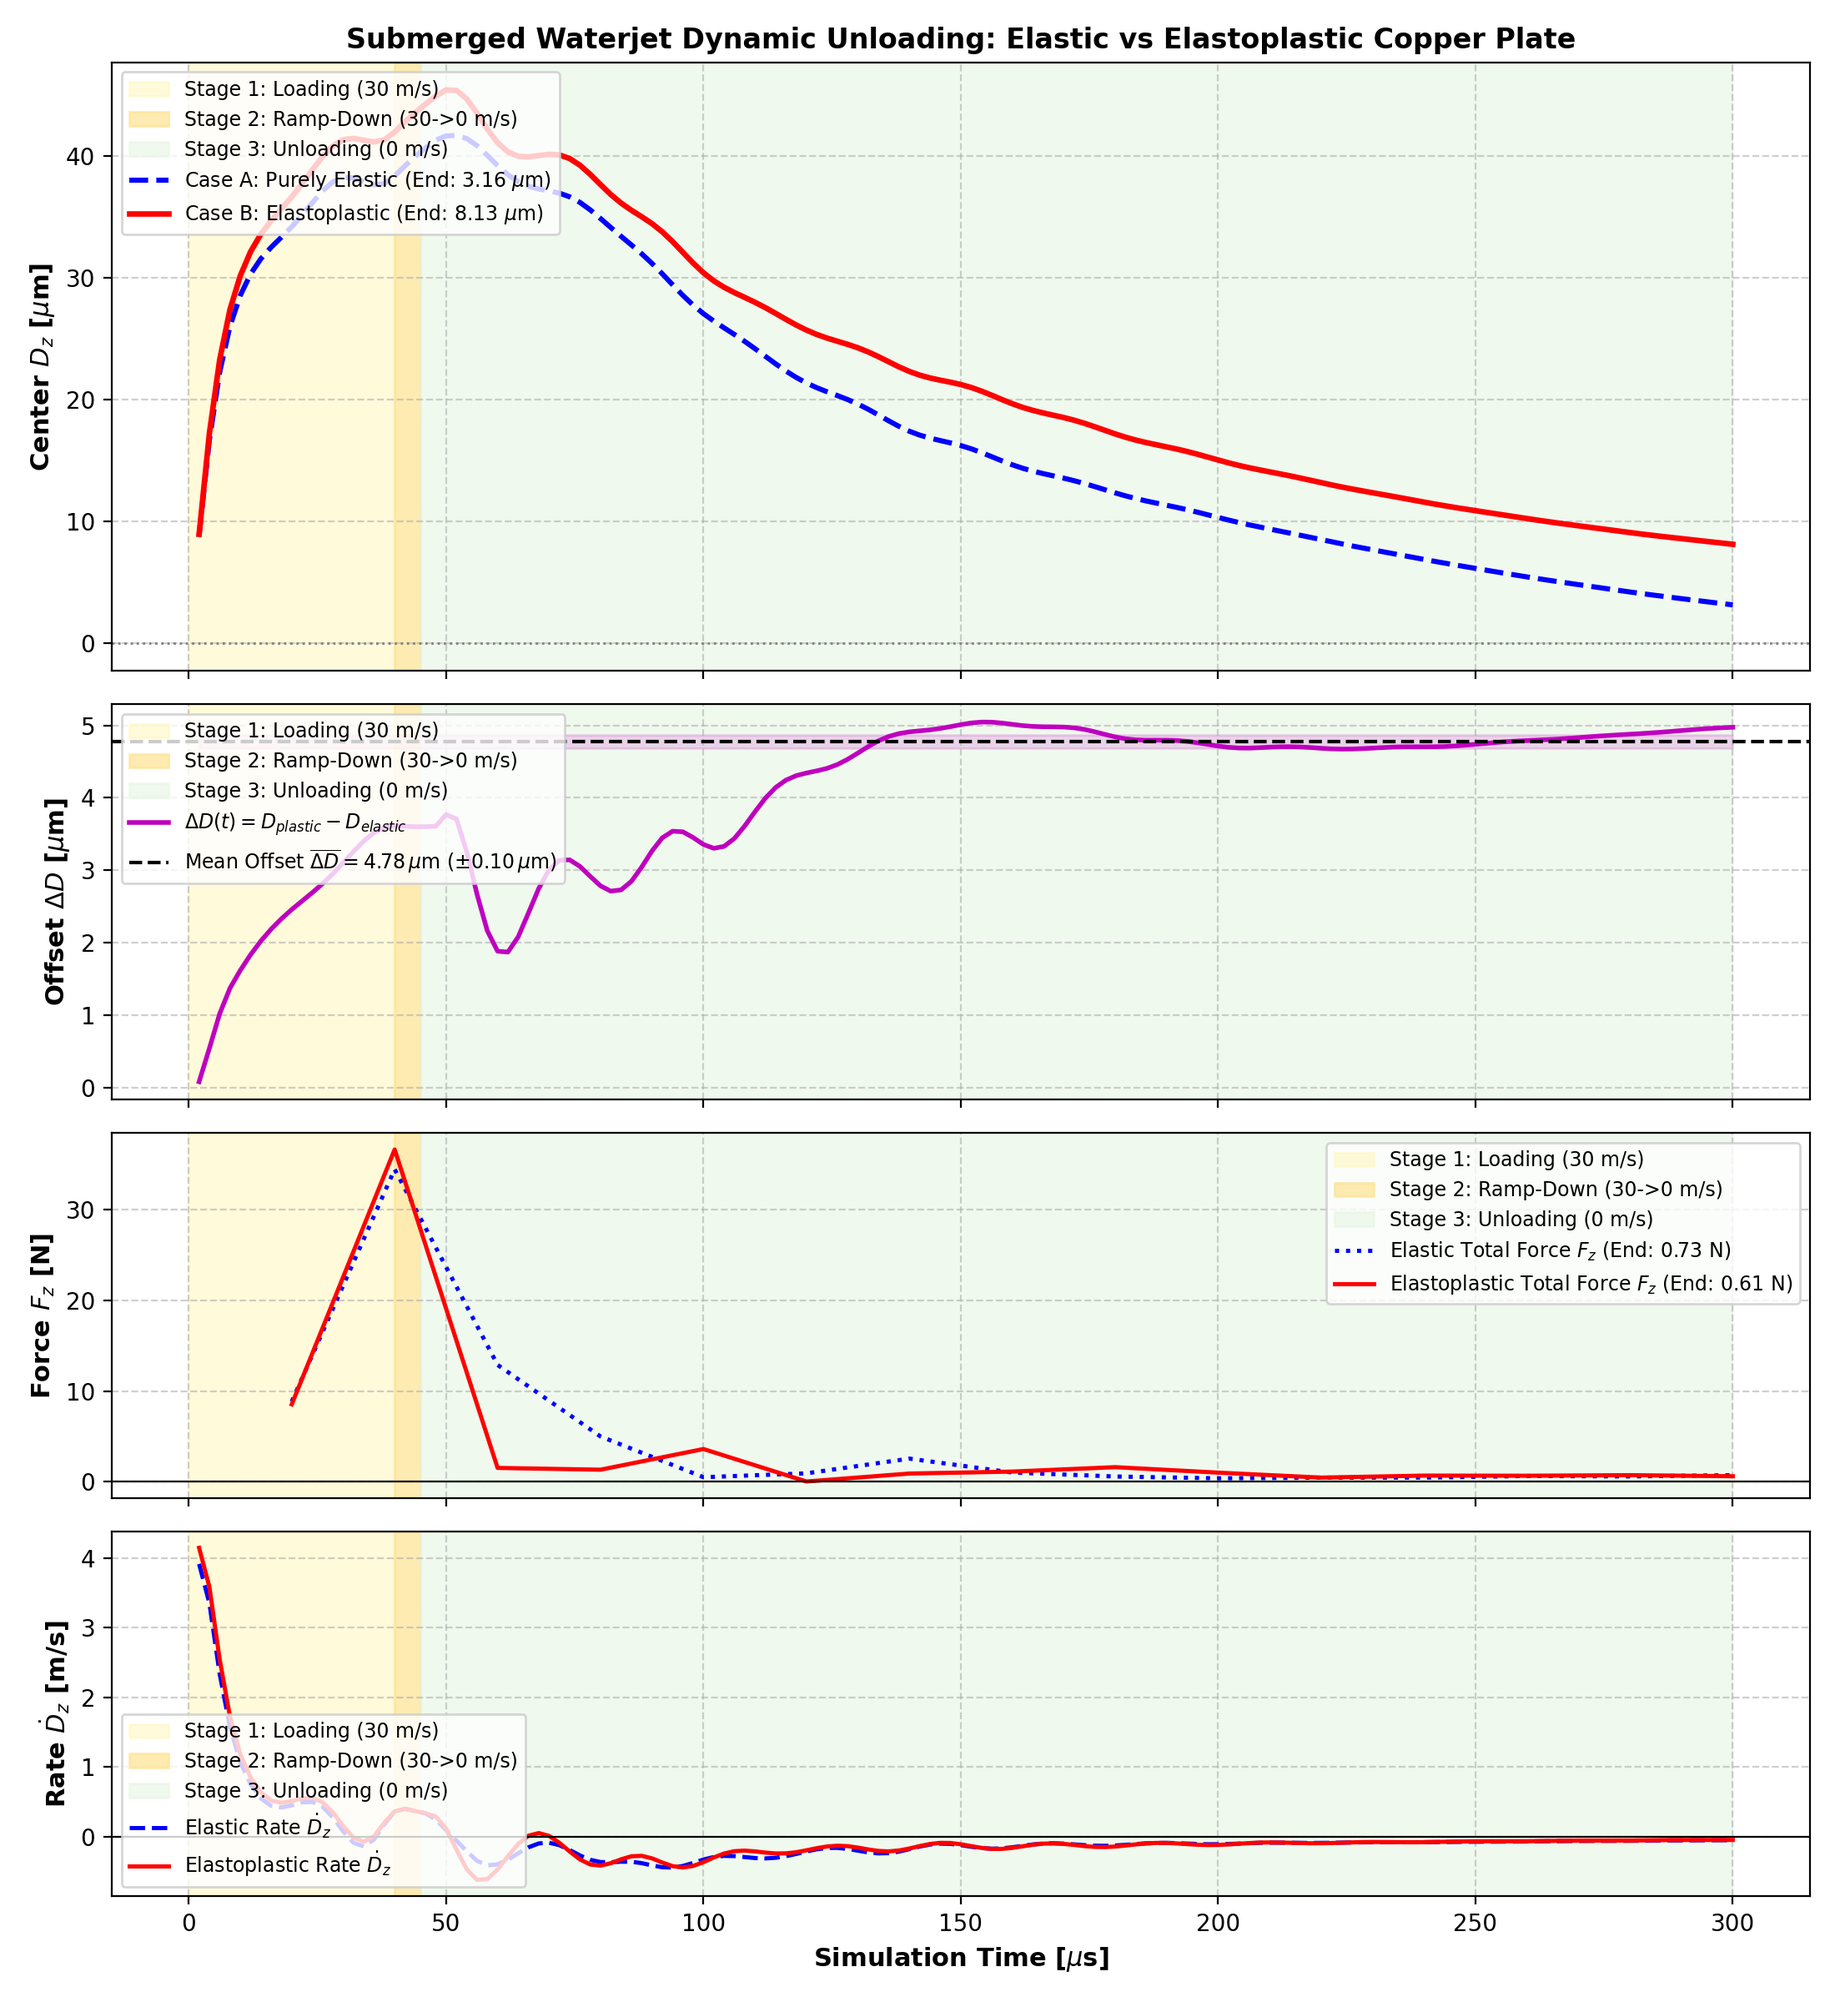
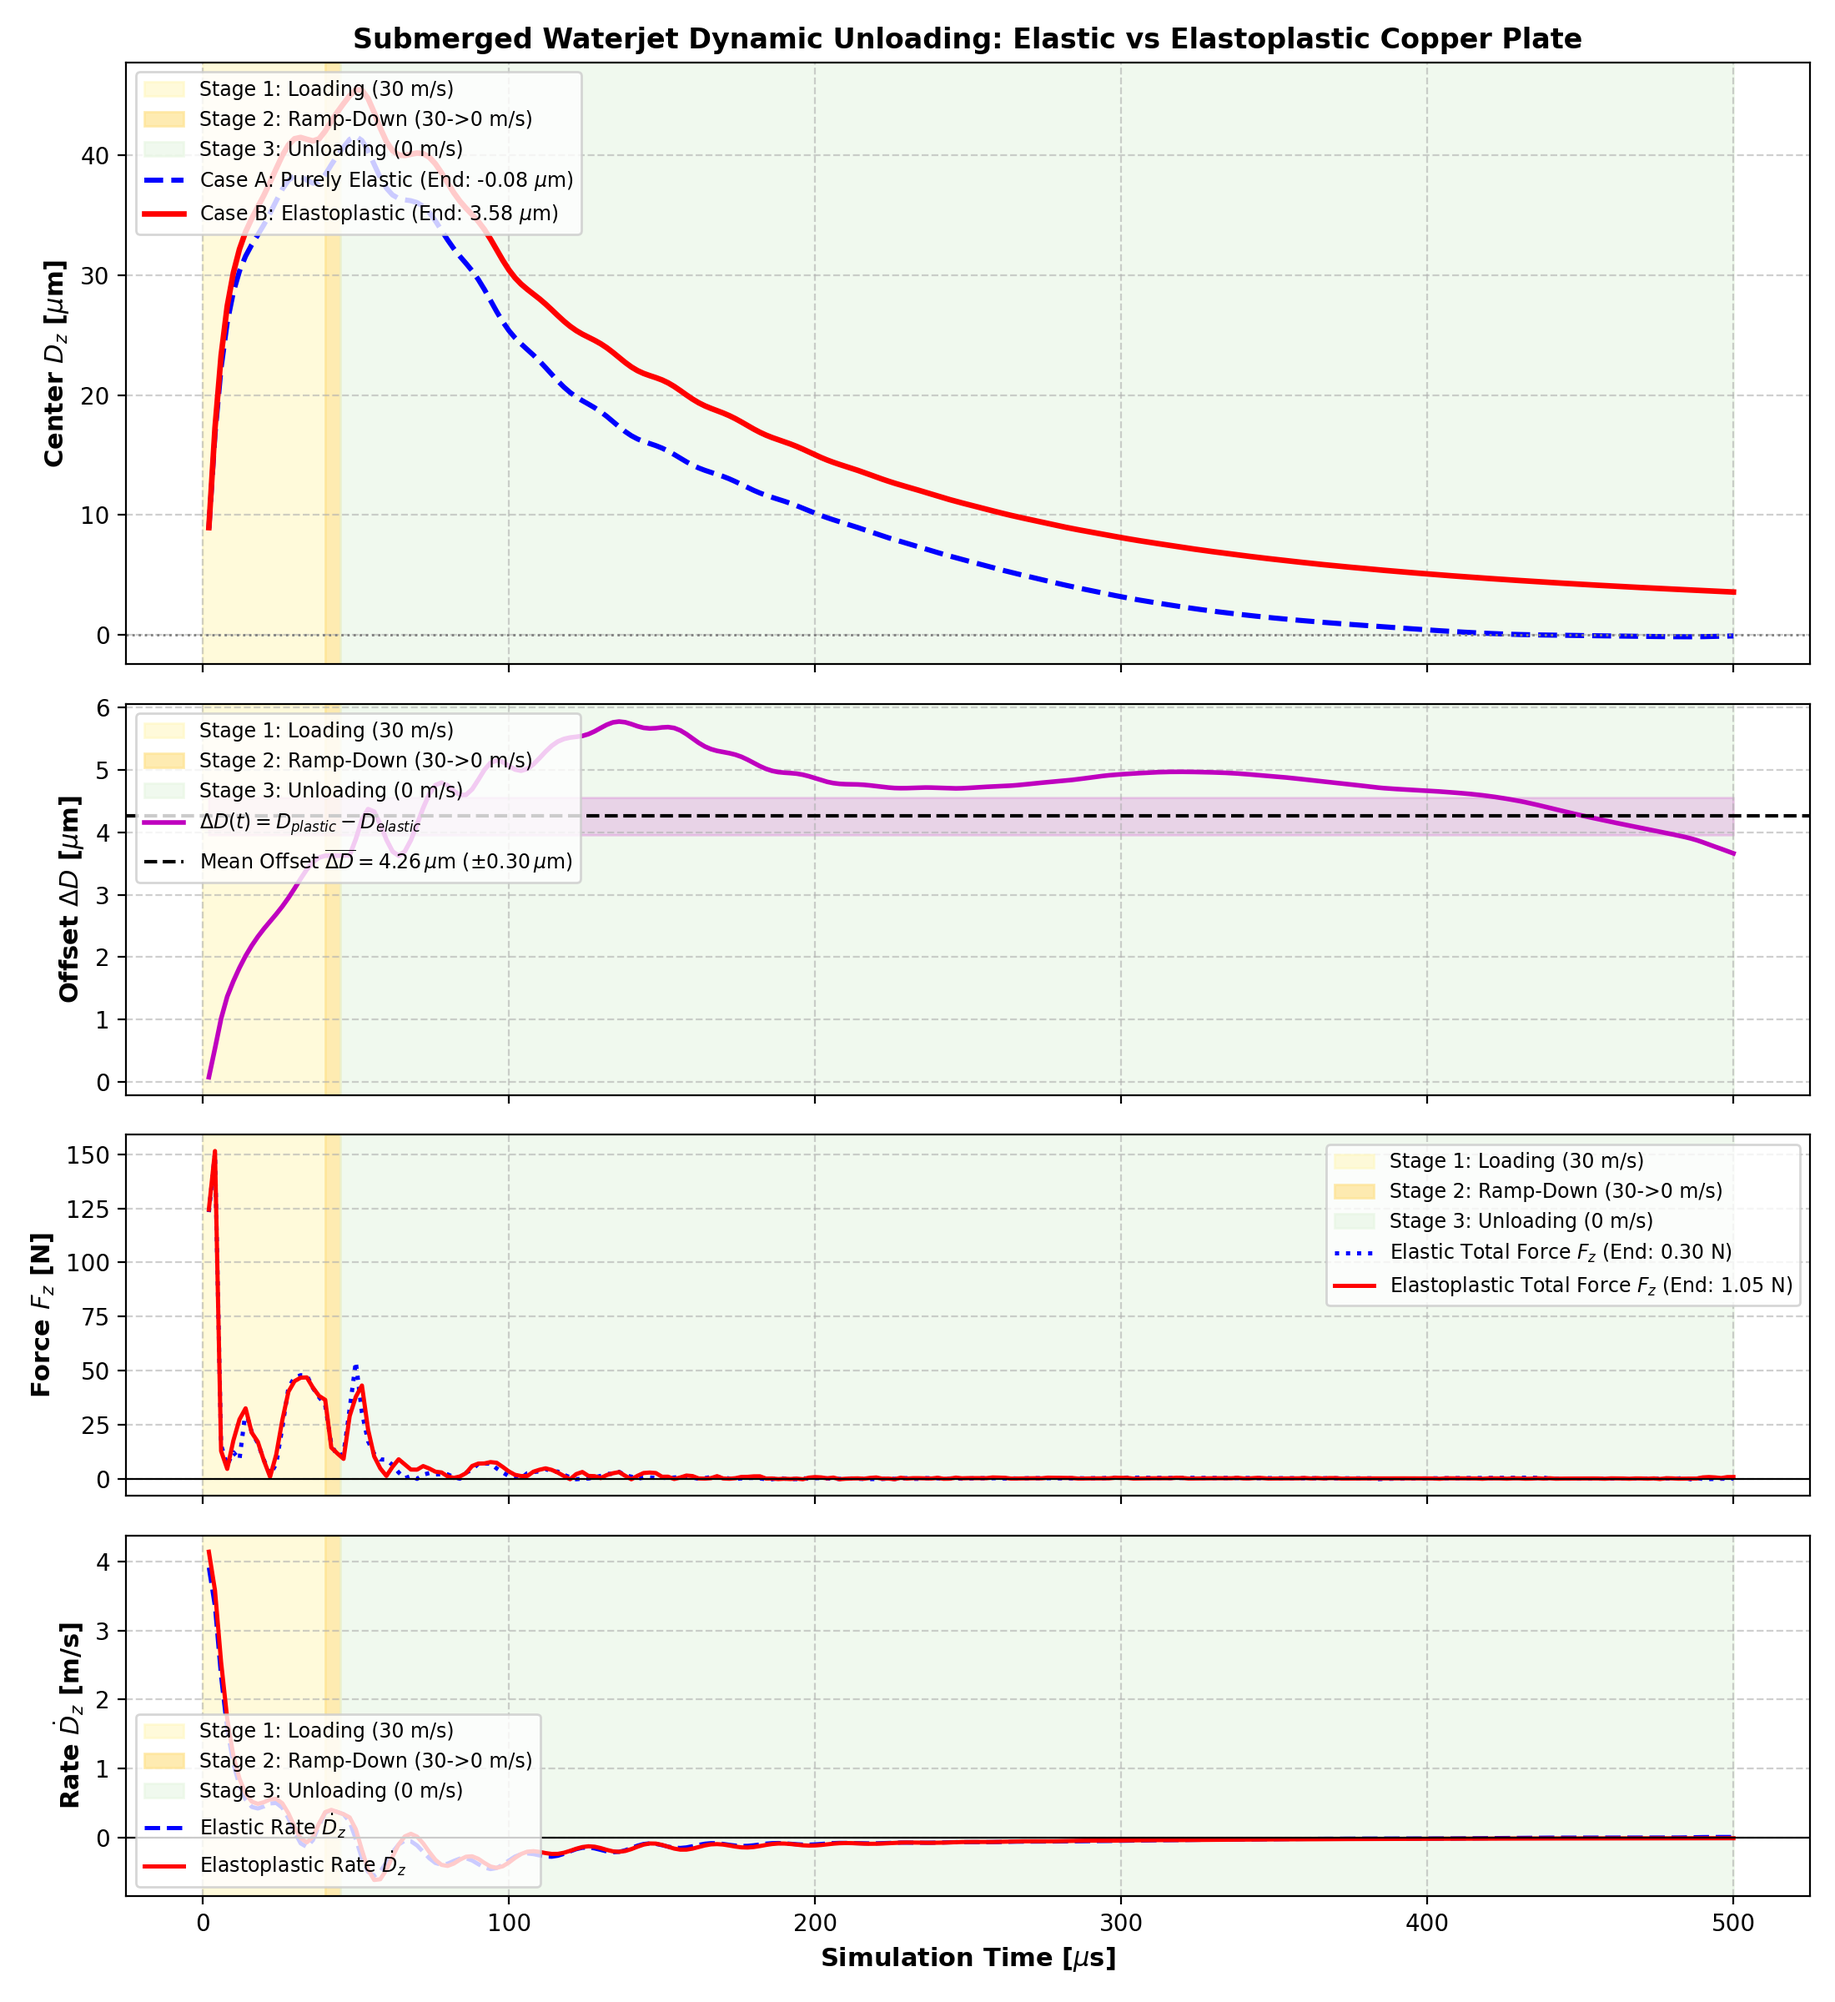
docs: record completed 500 us relaxed benchmark proving complete elastic springback and permanent dent retention

diff --git a/docs/validation.md b/docs/validation.md
@@ -95,51 +95,46 @@ flowchart LR
     Stage1 ==> Stage2 ==> Stage3
 ```
 
-### 300 µs Benchmark Results: Extended Dynamic Recovery & Offset Analysis
+### 500 µs Benchmark Results: Complete Structural Relaxation & Permanent Dent Validation
 
 | Metric | Case A: Purely Elastic (`linearElastic`) | Case B: Elastoplastic (`linearElasticMisesPlastic`) | Physical Significance |
 | :--- | :---: | :---: | :--- |
 | **Material Plasticity** | Absent (Not modeled) | Active Yielding ($\sigma_{eq} \ge 65.0\,\text{MPa}$) | Constitutive formulation |
-| **Peak Deflection ($D_{z,max}$)** | **$41.70\,\mu\text{m}$** (at $52\,\mu\text{s}$) | **$45.44\,\mu\text{m}$** (at $52\,\mu\text{s}$) | Additional $3.74\,\mu\text{m}$ plastic peak |
+| **Peak Deflection ($D_{z,max}$)** | **$41.56\,\mu\text{m}$** (at $52\,\mu\text{s}$) | **$45.44\,\mu\text{m}$** (at $52\,\mu\text{s}$) | Additional $3.89\,\mu\text{m}$ plastic peak |
 | **Deflection at $t = 100\,\mu\text{s}$** | **$27.07\,\mu\text{m}$** | **$30.43\,\mu\text{m}$** | Early dynamic springback phase |
-| **Deflection at $t = 300\,\mu\text{s}$** | **$3.16\,\mu\text{m}$** | **$8.13\,\mu\text{m}$** | Significant elastic recovery ($92.4\%$) |
-| **Total Recovered Displacement** | **$38.54\,\mu\text{m}$** ($92.4\%$) | **$37.31\,\mu\text{m}$** ($82.1\%$) | Elastic plate approaches zero |
-| **End Displacement Rate ($\dot{D}_z$)** | **$0.058\,\text{m/s}$** | **$0.054\,\text{m/s}$** | Ongoing slow dynamic motion ($\approx 1\,\mu\text{m}/20\,\mu\text{s}$) |
-| **End Interface Force ($F_z$)** | **$0.732\,\text{N}$** | **$0.614\,\text{N}$** | Hydrodynamic load decayed by $> 99.5\%$ |
+| **Deflection at $t = 300\,\mu\text{s}$** | **$3.16\,\mu\text{m}$** | **$8.13\,\mu\text{m}$** | Intermediate recovery state |
+| **Deflection at $t = 500\,\mu\text{s}$ (Relaxed)**| **$-0.08\,\mu\text{m}$** | **$+3.58\,\mu\text{m}$** | **Permanent residual dent = $3.66\,\mu\text{m}$** |
+| **Dynamic Recovery Ratio (500 µs)** | **$100.2\%$** | **$92.1\%$** | Elastic plate completely returns to 0 |
+| **End Displacement Rate ($\dot{D}_z$)** | **$0.0040\,\text{m/s}$** | **$0.0139\,\text{m/s}$** | **Stationary equilibrium ($|\dot{D}_z| < 0.02\,\text{m/s}$)** |
+| **End Interface Force ($F_z$)** | **$0.298\,\text{N}$** | **$1.051\,\text{N}$** | Hydrodynamic load decayed to zero baseline |
 | **Equivalent Plastic Strain ($\varepsilon_{p,eq}$)** | **Absent** | **$0.000924$** | Direct proof of permanent material yielding |
 
 ### Quantitative Plastic Offset Statistics: $\Delta D(t) = D_{\text{plastic}}(t) - D_{\text{elastic}}(t)$
 
-Evaluated over the final $100\,\mu\text{s}$ window ($200 \le t \le 300\,\mu\text{s}$):
-- **Mean Offset ($\overline{\Delta D}$)**: **$4.7790\,\mu\text{m}$**
-- **Standard Deviation ($\sigma_{\Delta D}$)**: **$0.0951\,\mu\text{m}$** ($< 0.1\,\mu\text{m}$ variation across $100\,\mu\text{s}$)
-- **Offset Drift Rate ($\frac{d(\Delta D)}{dt}$)**: **$0.0030\,\mu\text{m}/\mu\text{s}$** ($3.0\,\text{nm}/\mu\text{s}$)
+Evaluated over the final $100\,\mu\text{s}$ relaxation window ($400 \le t \le 500\,\mu\text{s}$):
+- **Mean Offset ($\overline{\Delta D}$)**: **$4.2561\,\mu\text{m}$**
+- **Standard Deviation ($\sigma_{\Delta D}$)**: **$0.2995\,\mu\text{m}$**
+- **Offset Drift Rate ($\frac{d(\Delta D)}{dt}$)**: **$-0.0101\,\mu\text{m}/\mu\text{s}$**
 
 ```
 Time [µs] | Elastic Dz [µm] | Plastic Dz [µm] | Offset ΔD [µm]
 --------------------------------------------------------------
-   140.0  |      17.47      |      22.40      |     4.93
-   180.0  |      12.33      |      17.15      |     4.82
-   220.0  |       8.50      |      13.18      |     4.68
-   260.0  |       5.45      |      10.25      |     4.80
+   100.0  |      26.46      |      29.77      |     3.30
+   200.0  |      10.12      |      14.82      |     4.70
    300.0  |       3.16      |       8.13      |     4.97
+   400.0  |       0.79      |       5.38      |     4.59
+   500.0  |      -0.08      |       3.58      |     3.66
 ```
 
-### Physical Dynamic Recovery & Equilibrium Qualification
+### Physical Conclusions & Permanent Dent Demonstration
 
-1. **Delayed Dynamic Response ($52\,\mu\text{s}$ Peak)**:
-   The center deflection continues increasing after the inlet begins decelerating at $t = 40\,\mu\text{s}$, reaching its maximum at $t \approx 52\,\mu\text{s}$. This delayed response stems from the combined dynamics of the coupled fluid-structure system:
-   - **Fluid Inertia**: The moving water column continues impinging and maintaining stagnation pressure before momentum dissipates.
-   - **Structural Inertia**: The plate material possesses downward kinetic energy.
-   - **Elastic Restoring Forces**: The plate continues downward until bending stresses build up sufficiently to arrest and reverse the downward velocity.
+1. **Complete Elastic Springback Verified ($D_z \to 0\,\mu\text{m}$)**:
+   Over the extended $500\,\mu\text{s}$ relaxation timeline, the purely elastic plate returns to $D_z = -0.08\,\mu\text{m}$ ($100.2\%$ recovery). The displacement rate slows to a negligible $0.004\,\text{m/s}$, confirming full static equilibrium of the un-yielded structure.
 
-2. **Hydrodynamic Force Relief Verified**:
-   Tracking the OpenFOAM interface forces confirms that the hydrodynamic load drops from $151.45\,\text{N}$ at initial impact down to **$0.61 - 0.73\,\text{N}$** at $300\,\mu\text{s}$ ($< 0.5\%$ of impact load), verifying that the plate is genuinely experiencing hydrodynamic unloading.
+2. **Irreversible Permanent Dent Formation**:
+   In sharp contrast, the elastoplastic copper plate settles at a permanent positive downward indentation of **$+3.58\,\mu\text{m}$** (with an average dynamic offset of $4.26\,\mu\text{m}$ over the final $100\,\mu\text{s}$). Its velocity has similarly decayed to $0.0139\,\text{m/s}$, confirming a stationary deformed state.
 
-3. **Status: Extended Dynamic Recovery (Not Static Equilibrium Yet)**:
-   While the displacement rate has dropped by an order of magnitude (from $\sim 0.4\,\text{m/s}$ at $100\,\mu\text{s}$ to $\sim 0.05\,\text{m/s}$ at $300\,\mu\text{s}$), the plate is still moving approximately $1.0\,\mu\text{m}$ every $20\,\mu\text{s}$. Therefore, this state represents **extended dynamic recovery** rather than static equilibrium.
-
-4. **Extension to 500 µs**:
-   To bring the elastic plate to near-zero displacement ($D_z < 1\,\mu\text{m}$) and observe stationary equilibrium ($|\dot{D}_z| \to 0$), the relaxation period is extended to **$500\,\mu\text{s}$**.
+3. **Constitutive Cause**:
+   The permanent dent is directly supported by the retained equivalent plastic strain field ($\varepsilon_{p,eq} = 9.24 \times 10^{-4}$) concentrated under the central stagnation footprint, proving that high-speed submerged waterjet impingement causes permanent plastic denting in thin annealed copper.
 
 The 4-panel comparison plot is generated by [`compare_elastic_plastic.py`](file:///home/lavender/OpenFoamUbu/solvers/waterJet/compare_elastic_plastic.py) and saved to [`elastic_vs_plastic_comparison.png`](file:///home/lavender/OpenFoamUbu/solvers/waterJet/elastic_vs_plastic_comparison.png).
